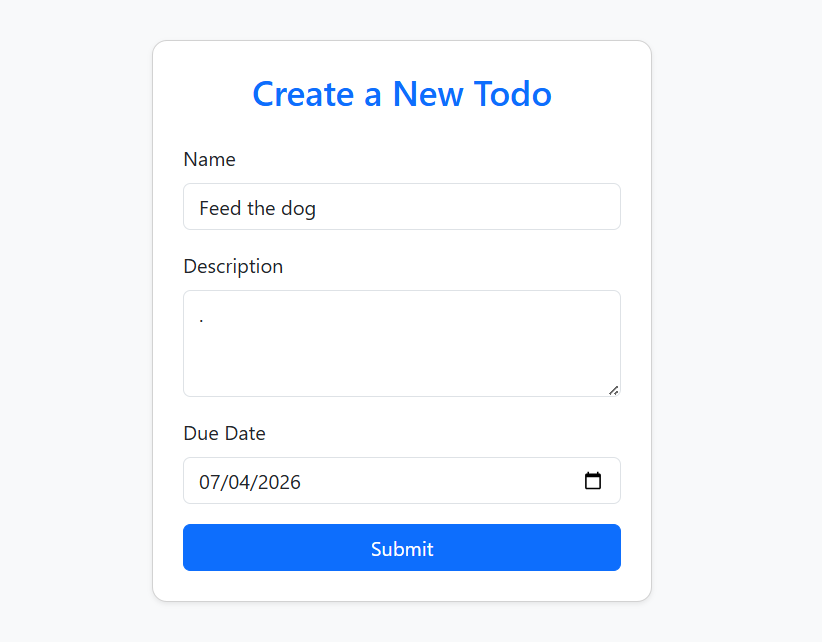
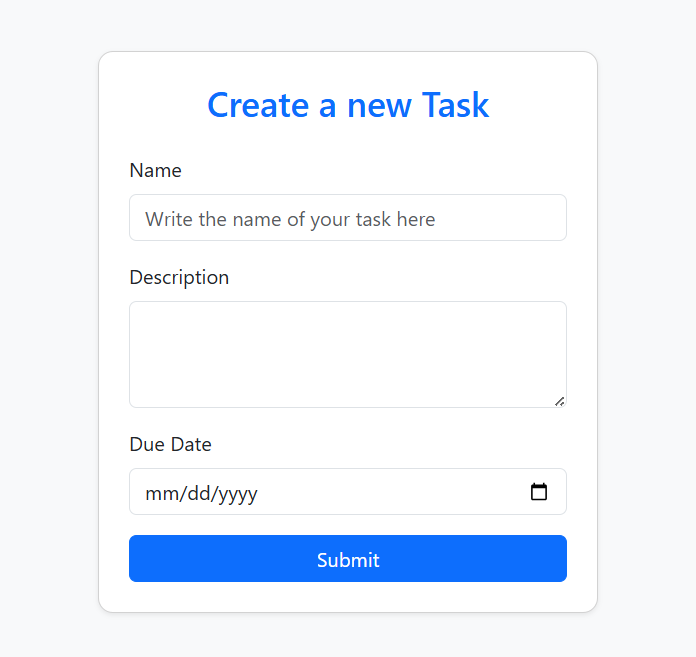
Updated loading of tasks. Now uses /GET tasks endpoint instead of loading from rendertemplate

diff --git a/templates/home.html b/templates/home.html
@@ -8,6 +8,7 @@
 {%if error%}
 <div class="alert alert-danger text-center mb-3" role="alert" id="error">{{ error }}</div>
 {%endif%}
+
 <div class="bg-light border-bottom shadow-sm py-3 px-4 d-flex justify-content-between align-items-center w-100">
   
   <!-- Left: Logged-in info -->
@@ -34,40 +35,57 @@
 
 
 <script>
+const Status = {
+    TODO: "{{ Status.TODO.value }}",
+    DOING: "{{ Status.DOING.value }}",
+    DONE: "{{ Status.DONE.value }}"
+};
+
 function formatDate(dateStr) {
   if (!dateStr || dateStr.trim() === "") { return "Unspecified"; }
   const date = new Date(dateStr);
   if (isNaN(date.getTime())) { return dateStr; }
   // returns the dates in dd/mm/yy format
   return date.toLocaleDateString("en-GB");
-}
+};
 
-// loads tasks from the render template call defined in the home route inside
-const tasks = {{ tasks | tojson }};
+// UPDATED: load tasks from the /get tasks endpoint in main.py
 
 const taskList = document.getElementById("tasks_div");
 
-tasks.forEach(task => {
-    const badgeClass = task.status == "Done"
-        ? "bg-success"
-        : "bg-primary";
+async function loadTasks() {    
+    const { tasks } = await api('/tasks');
+    const tasksAsArray = Array.from(tasks);
 
-    var content =
-            `<div class="card shadow-sm mb-3 border-0" data-id="${task.id}" style="height: 200px; width: 200px;">
-            <div class="card-body d-flex flex-column justify-content-center ">
-                <h6 class="card-title mb-1 fw-semibold text-truncate text-center p-2">${task.name}</h6>
-                <p class="card-text text-muted small mb-2 flex-grow-1 overflow-auto"
-                style="max-height: 100px; word-wrap: break-word;">
-                ${task.description}
-                </p>
-                <div class="mt-auto d-flex justify-content-between align-items-center">
-                <small class="text-secondary">Due: ${formatDate(task.due_date)}</small>
-                <span class="badge ${badgeClass}">${task.status || "task"}</span>
+    const badgeClasses = {
+        "To Do": "bg-primary",
+        "Doing": "bg-warning",
+        "Done": "bg-success",
+    };
+    taskList.replaceChildren();
+
+    tasksAsArray.forEach(task => {    
+        const badgeClass = badgeClasses[task.status];
+
+        var content =
+                `<div class="card shadow-sm mb-3 border-0" data-id="${task.id}" style="height: 200px; width: 200px;">
+                <div class="card-body d-flex flex-column justify-content-center ">
+                    <h6 class="card-title mb-1 fw-semibold text-truncate text-center p-2">${task.name}</h6>
+                    <p class="card-text text-muted small mb-2 flex-grow-1 overflow-auto"
+                    style="max-height: 100px; word-wrap: break-word;">
+                    ${task.description}
+                    </p>
+                    <div class="mt-auto d-flex justify-content-between align-items-center">
+                    <small class="text-secondary">Due: ${formatDate(task.due_date)}</small>
+                    <span class="badge ${badgeClass}">${task.status || "task"}</span>
+                    </div>
                 </div>
-            </div>
-            </div>`;
-    taskList.innerHTML += content;
-});
+                </div>`;
+        taskList.innerHTML += content;
+    });
+};
+
+loadTasks();
 
 taskList.addEventListener("click", (event) => {
     // stop panel from closing if user clicks button
@@ -114,9 +132,20 @@ function openPanel(body) {
 
     body.innerHTML = 
     `<div class="d-grid gap-2 col-10 mx-auto justify-content-center">
-        <button class="btn btn-outline-primary action-edit">Edit status</button>
-        <button class="btn btn-outline-success action-mark-as-done">Mark as done</button>
-        <button class="btn btn-outline-danger action-delete">Delete Task</button>
+        <button class="btn btn-primary action-edit">Edit Task</button>
+        <button class="btn btn-warning action-edit-status">Edit Status</button>
+        <button class="btn btn-danger action-delete">Delete Task</button>
+    </div>`;
+};
+
+function openStatusPanel(body) {
+    body.classList.add("edit-status-mode");
+
+    body.innerHTML = 
+    `<div class="d-grid gap-2 col-10 mx-auto justify-content-center">
+        <button class="btn btn-primary action-edit-status status-todo">To Do</button>
+        <button class="btn btn-warning action-edit-status status-doing">Doing</button>
+        <button class="btn btn-success action-edit-status status-done">Done</button>
     </div>`;
 };
 
@@ -157,38 +186,105 @@ document.addEventListener("click", async (event) => {
     };
 
     // done
-    if (event.target.classList.contains("action-mark-as-done")) {
+    if (event.target.classList.contains("action-edit-status")) {
         event.stopImmediatePropagation();
         const card = event.target.closest(".card");
         if (!card) return;
+
+        const body = card.querySelector(".card-body");
+        
         const id = card.dataset.id;
-        try {
-            const { task } = await api(`/tasks/${id}`, {
-                method: "PATCH",
-                body: JSON.stringify({ status: "Done" })
-            });
 
-            // update badge in current card
-            const body = card.querySelector(".card-body");
+        // to do
+        if (event.target.classList.contains("status-todo")) {
+            event.stopImmediatePropagation();
 
-            if (body.dataset.original) {
-                body.innerHTML = body.dataset.original;
-                delete body.dataset.original;
-                body.classList.remove("edit-mode");
-            }
-            
-            const badge = body.querySelector(".badge");
-            if (badge) {
-                badge.textContent = task.status || "Done";
-                console.log(badge)
-                badge.classList.remove("bg-primary");
-                badge.classList.add("bg-success");
-            } else {
-                console.log("No badge element found for card:", card);
-            }
-        } catch (err) { console.log(err); }  
-        window.location.reload();
+        const { task } = await api(`/tasks/${id}`, {
+            method: "PATCH",
+            body: JSON.stringify({ status: Status.TODO })
+        });
+
+        // update badge in current card
+        const body = card.querySelector(".card-body");
+
+        if (body.dataset.original) {
+            body.innerHTML = body.dataset.original;
+            delete body.dataset.original;
+            body.classList.remove("edit-mode");
+        }
+        
+        const badge = body.querySelector(".badge");
+        if (badge) {
+            badge.textContent = task.status || Status.TODO;
+            badge.classList.remove("bg-primary");
+            badge.classList.add("bg-success");
+        } else {
+            console.log("No badge element found for card:", card);
+        }
+        loadTasks();
+        };
+
+        // doing
+        if (event.target.classList.contains("status-doing")) {
+            event.stopImmediatePropagation();
+
+        const { task } = await api(`/tasks/${id}`, {
+            method: "PATCH",
+            body: JSON.stringify({ status: Status.DOING })
+        });
+
+        // update badge in current card
+        const body = card.querySelector(".card-body");
+
+        if (body.dataset.original) {
+            body.innerHTML = body.dataset.original;
+            delete body.dataset.original;
+            body.classList.remove("edit-mode");
+        }
+        
+        const badge = body.querySelector(".badge");
+        if (badge) {
+            badge.textContent = task.status || Status.DOING;
+            badge.classList.remove("bg-primary");
+            badge.classList.add("bg-success");
+        } else {
+            console.log("No badge element found for card:", card);
+        }
+        loadTasks();
+        };
+
+        // done
+        if (event.target.classList.contains("status-done")) {
+            event.stopImmediatePropagation();
+
+        const { task } = await api(`/tasks/${id}`, {
+            method: "PATCH",
+            body: JSON.stringify({ status: Status.DONE })
+        });
+
+        // update badge in current card
+        const body = card.querySelector(".card-body");
+
+        if (body.dataset.original) {
+            body.innerHTML = body.dataset.original;
+            delete body.dataset.original;
+            body.classList.remove("edit-mode");
+        }
+        
+        const badge = body.querySelector(".badge");
+        if (badge) {
+            badge.textContent = task.status || Status.DONE;
+            badge.classList.remove("bg-primary");
+            badge.classList.add("bg-success");
+        } else {
+            console.log("No badge element found for card:", card);
+        }
+        loadTasks();
+        };
+
+        openStatusPanel(body);    
     };
+    
 
     // edit
     if (event.target.classList.contains("action-edit")) {
@@ -238,8 +334,6 @@ document.addEventListener("click", async (event) => {
             delete body.dataset.original;
 
             card.querySelector(".card-title").textContent = task.name;
-            console.log(card)
-            console.log(event.target)
             card.querySelector(".card-text").textContent = task.description || "";            
         } catch (err) { console.log(err); }
     };

diff --git a/main.py b/main.py
@@ -5,6 +5,7 @@ from flask_jwt_extended import create_access_token, jwt_required, get_jwt_identi
 from app_setup import app
 from AuthService import hashPassword, checkPassword
 from sqlalchemy import case
+from statuses import Status
 
 
 # routes
@@ -46,12 +47,13 @@ def home():
     current_user = get_jwt_identity() # gets user_id from JWT
     tasks = Task.query.filter_by(user_id=current_user).order_by(
         case(
-            (Task.status == "To Do", 0),
-            (Task.status == "Done", 1)
+            (Task.status == Status.TODO.value, 0),
+            (Task.status == Status.DOING.value, 1),
+            (Task.status == Status.DONE.value, 2)
         )
     )
     jsonified_tasks = [task.to_dict() for task in tasks]
-    return render_template("home.html", tasks=jsonified_tasks, username=username)
+    return render_template("home.html", username=username, Status=Status)
 
 
 @app.route("/register", methods=["GET", "POST"])
@@ -112,7 +114,7 @@ def create_task():
     new_task.description = description or ""
     new_task.created_at = created_at
     new_task.due_date = due_date or ""
-    new_task.status = "To Do"
+    new_task.status = Status.TODO.value
     
     db.session.add(new_task)
     db.session.commit()
@@ -133,7 +135,6 @@ def update_task(task_id):
     # update fields
     for field in ("name", "description", "due_date", "status"):
         if field in data:
-            # equivalent to task.field = data[field]
             setattr(task, field, data[field])
     
     db.session.commit()
@@ -150,6 +151,21 @@ def delete_task(task_id):
     db.session.delete(task)
     db.session.commit()
     return jsonify(ok=True)
+
[email redacted]("/tasks", methods=["GET"])
+@jwt_required()
+def get_tasks():
+    # only show tasks of the current user
+    current_user = get_jwt_identity() # gets user_id from JWT
+    tasks = Task.query.filter_by(user_id=current_user).order_by(
+        case(
+            (Task.status == Status.TODO.value, 0),
+            (Task.status == Status.DOING.value, 1),
+            (Task.status == Status.DONE.value, 2)
+        )
+    )
+    jsonified_tasks = [task.to_dict() for task in tasks]
+    return jsonify(tasks=jsonified_tasks)
 
 print(app.url_map)
 if __name__ == "__main__":

diff --git a/statuses.py b/statuses.py
@@ -1,0 +1,6 @@
+from enum import Enum
+
+class Status(Enum):
+    TODO = "To Do"
+    DOING = "Doing"
+    DONE = "Done"